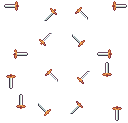
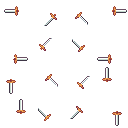
swordAnim

diff --git a/lib/actors/ember.dart b/lib/actors/ember.dart
@@ -28,6 +28,9 @@ class EmberPlayer extends SpriteAnimationComponent with CollisionCallbacks, HasG
 
    bool hitByEnemy = false;
 
+   bool hasSword = false;
+   bool isAttacking = false;
+
   void moveLeft(){
     horizontalDirection = -1;
   }
@@ -39,6 +42,7 @@ class EmberPlayer extends SpriteAnimationComponent with CollisionCallbacks, HasG
   }
   void jump(){
     hasJumped = true;
+    attack();
     
   }
 
@@ -61,6 +65,33 @@ class EmberPlayer extends SpriteAnimationComponent with CollisionCallbacks, HasG
     );
   }
 
+  void attack(){
+    if (!hasSword || isAttacking) return;
+    isAttacking = true;
+
+    final swordAnim = SpriteAnimationComponent(
+      animation: SpriteAnimation.fromFrameData(
+        game.images.fromCache('swording.png'),
+        SpriteAnimationData.sequenced(
+          amount: 8,
+          stepTime: 0.12,
+          textureSize: Vector2.all(32),
+          amountPerRow: 4,
+          loop: false,
+          ),
+        ),
+        size: Vector2.all(108),
+        anchor: Anchor.center,
+        position: Vector2(32, 32),
+        removeOnFinish: true, //really? maybe not
+    );
+    add(swordAnim);
+    Future.delayed(const Duration(milliseconds: 960), () {
+      isAttacking = false;
+    });
+    
+  }
+
   @override
   void onCollision(Set<Vector2> intersectionPoints, PositionComponent other){
     if (other is Star) {
@@ -70,6 +101,7 @@ class EmberPlayer extends SpriteAnimationComponent with CollisionCallbacks, HasG
     }
     if (other is Sword) {
       other.removeFromParent();
+      hasSword = true;
       FlameAudio.play('star.wav', volume: 0.7);
     }
     if (other is WaterEnemy && !hitByEnemy){
